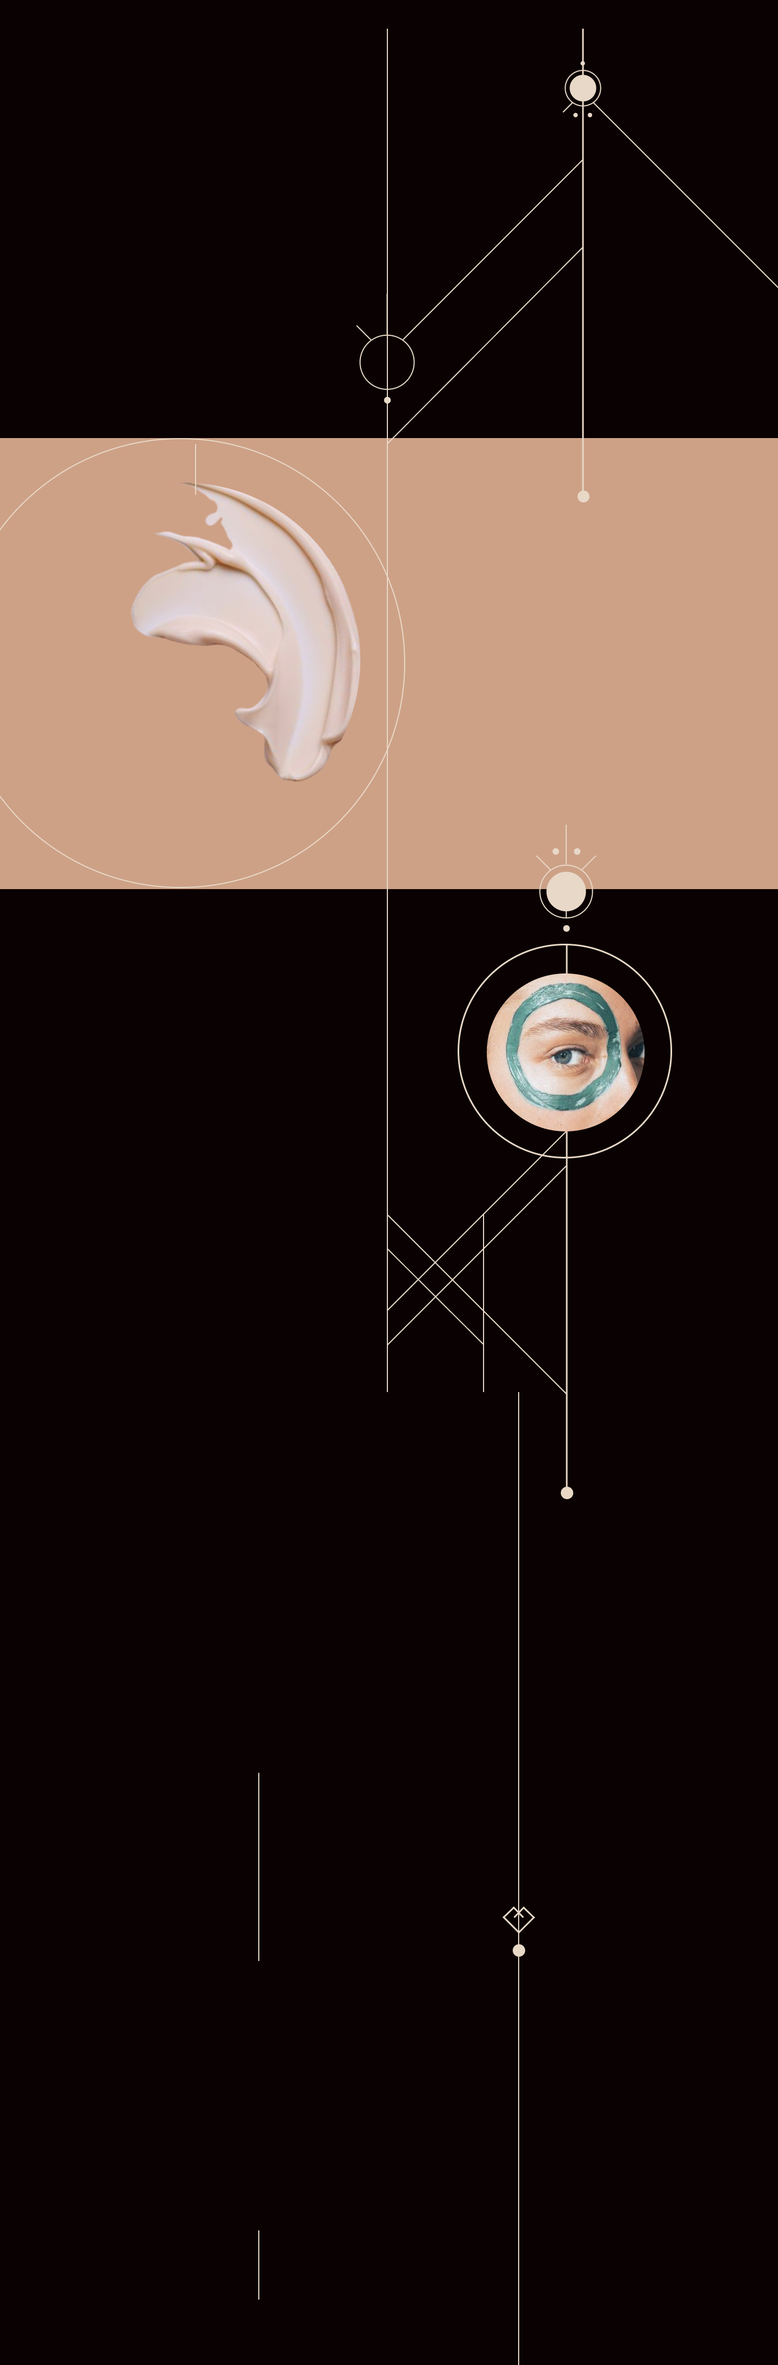
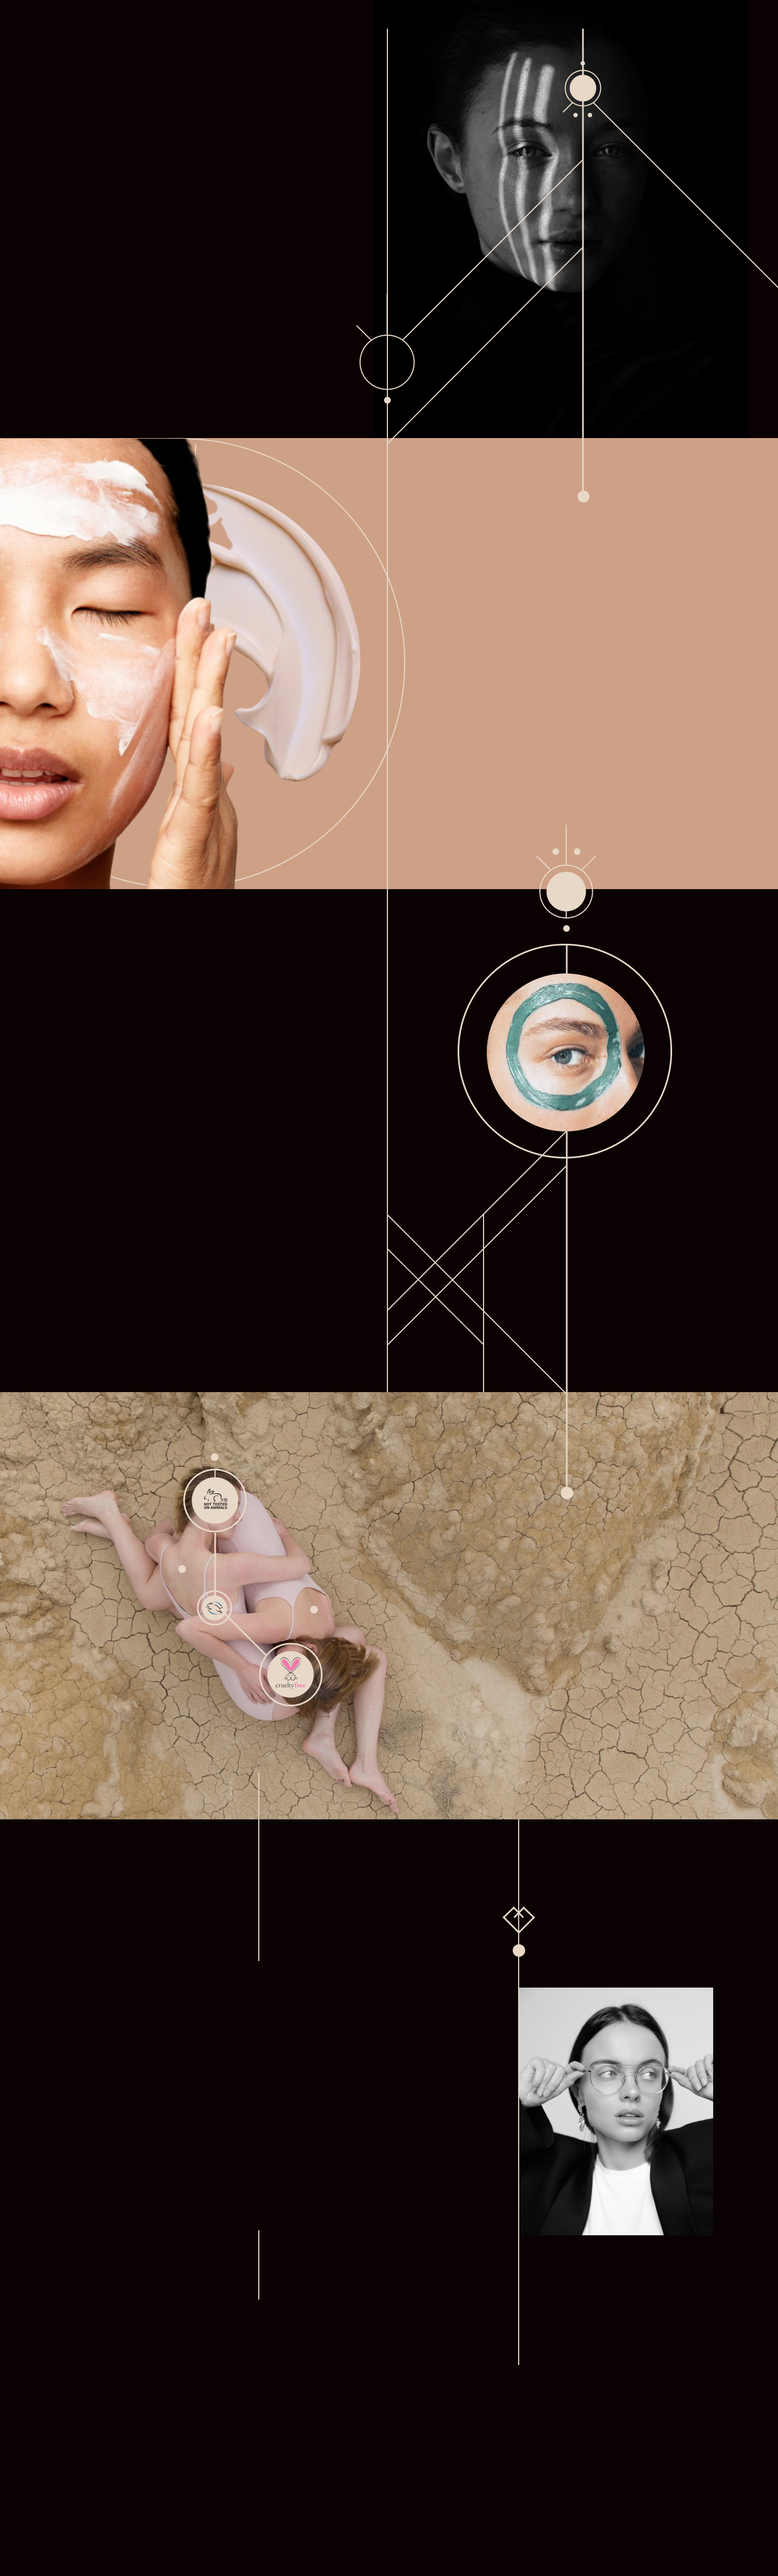
landing

diff --git a/app/assets/stylesheets/landing.scss b/app/assets/stylesheets/landing.scss
@@ -1,6 +1,80 @@
 .landing {
+  .info {
+    margin-top: 60px;
+
+    .skreen {
+      position: relative;
+      width: 84vw;
+
+      .but {
+        margin-top: 60px;
+      }
+
+      .content {
+        position: absolute;
+        width: 560px;
+
+        p {
+          width: 560px
+        }
+      }
+
+      &:nth-of-type(2n+1){
+        color: #E8D8C7;
+
+        .content {
+          left: 0;
+        }
+
+        .but a span {
+          background-color: #E8D8C7;
+          color: #0A0202;
+        }
+      }
+
+      &:nth-of-type(2n){
+
+        .content {
+          right: 0;
+        }
+
+      }
+
+      &:nth-of-type(1) {
+        height: 53vw;
+        .content {
+          top: 172px;
+        }
+      }
+      &:nth-of-type(2) {
+        height: 58vw;
+        .content {
+          top: 208px;
+        }
+      }
+      &:nth-of-type(3) {
+        height: 64vw;
+        .content {
+          top: 264px;
+        }
+      }
+      &:nth-of-type(4) {
+        height: 55vw;
+        .content {
+          top: 244px;
+        }
+      }
+      &:nth-of-type(5) {
+        height: 73vw;
+        .content {
+          top: 378px;
+        }
+      }
+    }
+  }
   img {
     position: absolute;
+    top: 145px;
     z-index: -1;
     width: 100vw;
     margin-left: -8vw;

diff --git a/app/assets/stylesheets/base.scss b/app/assets/stylesheets/base.scss
@@ -13,6 +13,7 @@ body {
     font-size: 38px;
     font-weight: bold;
     margin-bottom: 43px;
+    line-height: 130%;
   }
 
   h2 {
@@ -37,7 +38,8 @@ body {
 
   p {
     width: 40vw;
-    font-size: 18px
+    font-size: 18px;
+    line-height: 140%;
   }
 
   a {

diff --git a/app/assets/stylesheets/menubar.scss b/app/assets/stylesheets/menubar.scss
@@ -1,4 +1,7 @@
 .menubar {
+  position: fixed;
+  z-index: 5;
+  top: 0;
   background-color: #0A0202;
   padding: 0 80px;
   width: 92vw;
